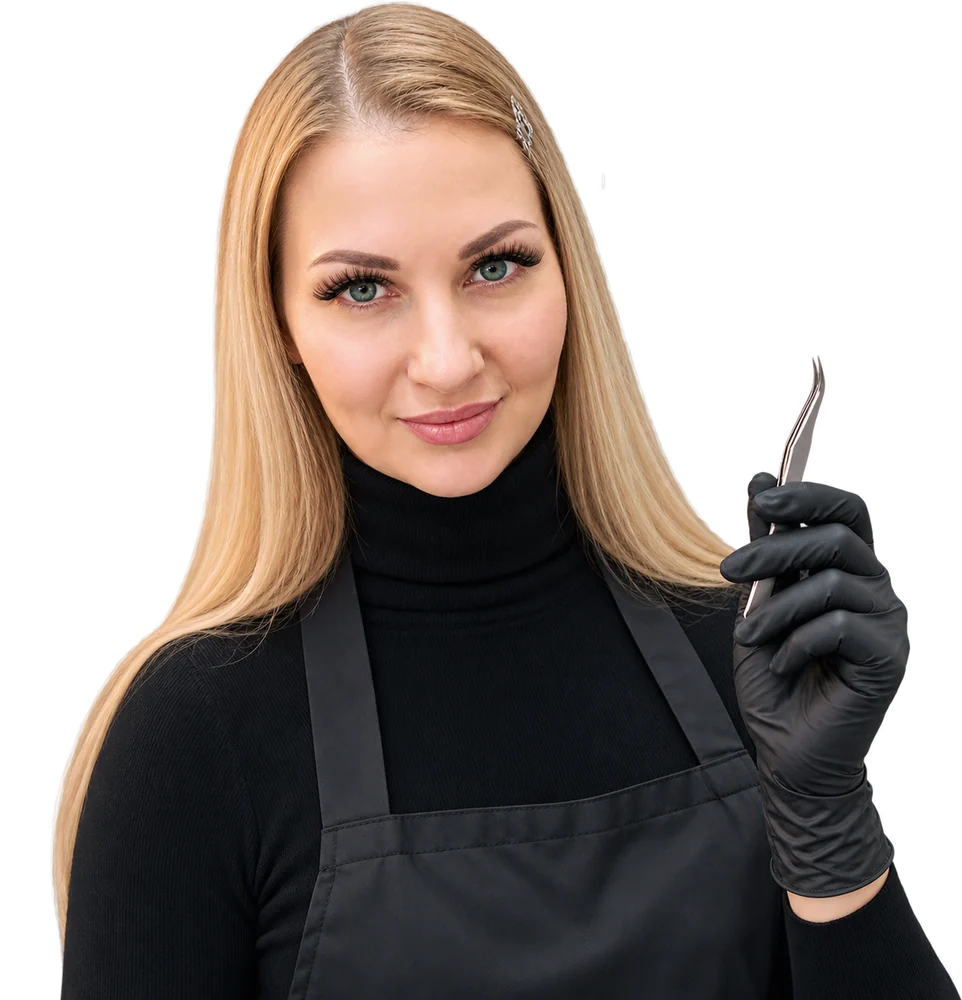
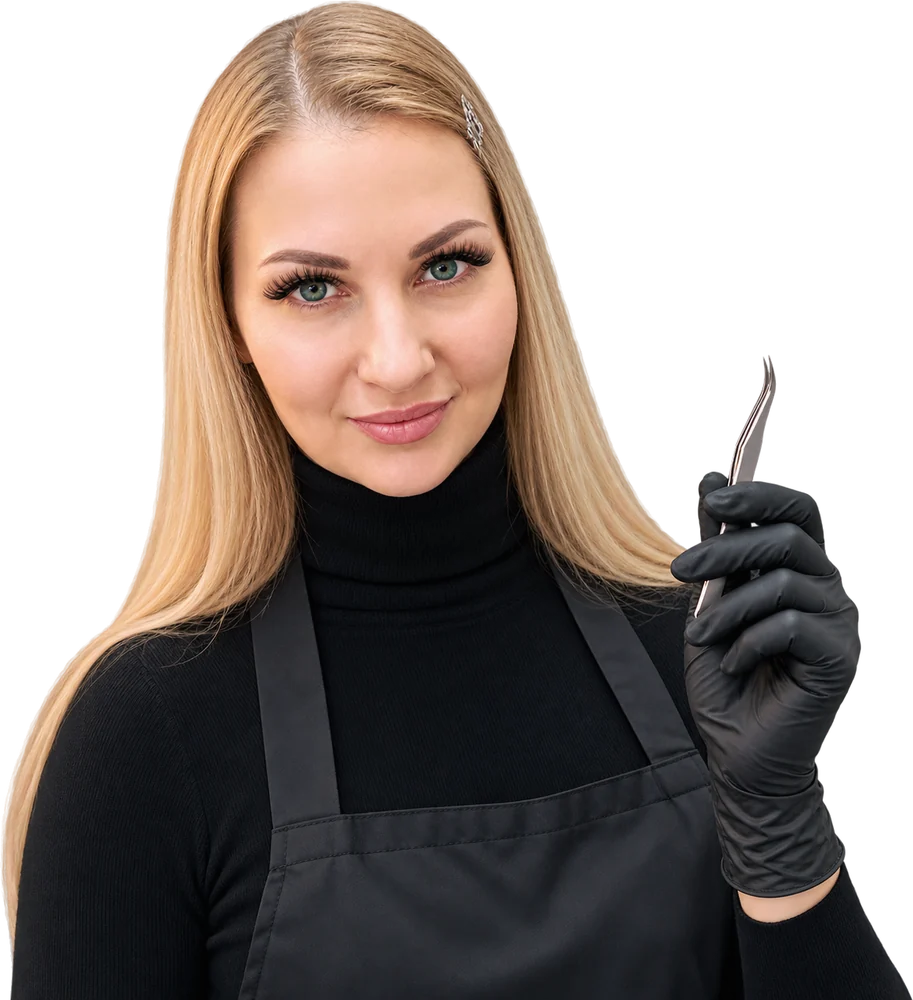
Flash Lash: course hero photo fits inside panel, plain font labels, certificate badge at bottom
Claude-Session: https://claude.ai/code/session_015USu4L9KcEDLKSjjP3hqWH

diff --git a/flash-lash/index.html b/flash-lash/index.html
@@ -604,7 +604,7 @@ a.pnote:hover{border-color:var(--pink)}
 /* ===== EDUCATION ===== */
 .edu-s{overflow:hidden}
 .eh3{font-size:clamp(28px,3vw,40px);line-height:1.16;margin-top:16px}
-.eh{position:relative;display:grid;grid-template-columns:1.08fr .92fr;gap:24px;margin-top:70px;border-radius:38px;background:var(--blk);color:var(--lt);isolation:isolate}
+.eh{position:relative;overflow:hidden;display:grid;grid-template-columns:1.08fr .92fr;gap:24px;margin-top:40px;border-radius:38px;background:var(--blk);color:var(--lt);isolation:isolate}
 .eh::after{content:'';position:absolute;inset:0;border-radius:inherit;box-shadow:inset 0 0 0 1px rgba(182,166,238,.2);pointer-events:none;z-index:3}
 .eh-glow{position:absolute;inset:0;border-radius:inherit;overflow:hidden;z-index:-1}
 .eh-glow::before{content:'';position:absolute;right:4%;bottom:-30%;width:62%;aspect-ratio:1;border-radius:50%;background:radial-gradient(closest-side,rgba(198,87,222,.5),rgba(122,99,232,.22) 60%,transparent);filter:blur(30px)}
@@ -621,10 +621,10 @@ a.pnote:hover{border-color:var(--pink)}
 .eh-st span{font-size:13px;line-height:1.35;color:rgba(242,238,248,.78)}
 .eh-bt{display:flex;flex-wrap:wrap;gap:12px;margin-top:34px}
 .eh-ph{position:relative;min-height:100%}
-.eh-ph img{position:absolute;right:-1%;bottom:0;height:calc(100% + 60px);-webkit-mask-image:linear-gradient(90deg,transparent 0,#000 30%);mask-image:linear-gradient(90deg,transparent 0,#000 30%);width:auto;max-width:none;filter:drop-shadow(0 30px 50px rgba(0,0,0,.45));z-index:1}
-.eh-pill{position:absolute;right:4%;top:24%;z-index:2;padding:12px 22px;border-radius:40px;border:1.5px solid rgba(214,120,236,.85);background:rgba(20,16,48,.55);backdrop-filter:blur(8px);-webkit-backdrop-filter:blur(8px);font:400 21px/1 var(--hand);color:var(--lt);box-shadow:0 0 26px rgba(198,87,222,.45);transform:rotate(-7deg)}
-.eh-note{position:absolute;left:0;bottom:44px;z-index:2;max-width:230px;padding:16px 18px 14px;border-radius:20px;background:rgba(14,16,38,.72);backdrop-filter:blur(10px);-webkit-backdrop-filter:blur(10px);border:1px solid var(--lnw);box-shadow:0 24px 50px -24px rgba(0,0,0,.8)}
-.eh-note .hand{display:block;font-size:21px;line-height:1.15;color:var(--pink2)}
+.eh-ph img{position:absolute;right:0;bottom:0;width:100%;height:calc(100% - 28px);object-fit:contain;object-position:right bottom;filter:drop-shadow(0 30px 50px rgba(0,0,0,.45));z-index:1}
+.eh-pill{position:absolute;right:16px;top:22%;z-index:2;padding:12px 20px;border-radius:40px;border:1.5px solid rgba(214,120,236,.85);background:rgba(20,16,48,.6);backdrop-filter:blur(8px);-webkit-backdrop-filter:blur(8px);font:600 14px/1 var(--sans);letter-spacing:.01em;color:var(--lt);box-shadow:0 0 26px rgba(198,87,222,.45)}
+.eh-note{position:absolute;left:0;bottom:40px;z-index:2;max-width:230px;padding:16px 18px 14px;border-radius:20px;background:rgba(14,16,38,.72);backdrop-filter:blur(10px);-webkit-backdrop-filter:blur(10px);border:1px solid var(--lnw);box-shadow:0 24px 50px -24px rgba(0,0,0,.8)}
+.eh-note b{display:block;font:600 15px/1.35 var(--sans);color:var(--lt)}
 .eh-note small{display:block;margin-top:8px;font-size:11.5px;color:var(--mut)}
 
 .eg{display:grid;grid-template-columns:.9fr 1.1fr;gap:72px;align-items:center;margin-top:120px}
@@ -633,7 +633,7 @@ a.pnote:hover{border-color:var(--pink)}
 .eg-bg::before{content:'';position:absolute;inset:0;background:radial-gradient(60% 50% at 50% 30%,rgba(198,87,222,.32),transparent 70%)}
 .eg-bg::after{content:'';position:absolute;inset:0;border-radius:inherit;box-shadow:inset 0 0 0 1px rgba(182,166,238,.22)}
 .eg-ph img{position:absolute;left:50%;bottom:0;transform:translateX(-50%);height:100%;width:auto;max-width:none;filter:drop-shadow(0 24px 40px rgba(0,0,0,.4))}
-.eg-badge{position:absolute;right:-8px;top:22%;display:flex;align-items:center;gap:12px;padding:14px 18px;border-radius:20px;background:var(--grad);color:#fff;font-size:13px;font-weight:600;line-height:1.3;box-shadow:0 24px 44px -20px rgba(198,87,222,.8);transform:rotate(4deg)}
+.eg-badge{position:absolute;right:-8px;bottom:9%;display:flex;align-items:center;gap:12px;padding:14px 18px;border-radius:20px;background:var(--grad);color:#fff;font-size:13px;font-weight:600;line-height:1.3;box-shadow:0 24px 44px -20px rgba(198,87,222,.8);transform:rotate(4deg)}
 .eg-badge .i{width:28px;height:28px}
 .eg-l{list-style:none;margin-top:30px;border-top:1px solid var(--ln)}
 .eg-l li{display:grid;grid-template-columns:64px 1fr;align-items:center;gap:18px;padding:20px 0;border-bottom:1px solid var(--ln)}
@@ -704,7 +704,7 @@ a.pnote:hover{border-color:var(--pink)}
   .eh{grid-template-columns:1fr;gap:0;margin-top:40px}
   .eh-tx{padding:48px 40px 0}
   .eh-ph{height:460px}
-  .eh-ph img{right:auto;left:50%;transform:translateX(-50%);height:calc(100% + 10px);-webkit-mask-image:none;mask-image:none}
+  .eh-ph img{object-position:center bottom;height:calc(100% - 10px)}
   .eh-pill{right:6%;top:16%}
   .eh-note{left:24px;bottom:28px}
   .eg{grid-template-columns:1fr;gap:44px;margin-top:100px}
@@ -726,11 +726,12 @@ a.pnote:hover{border-color:var(--pink)}
   .eh-bt{margin-top:26px}
   .eh-bt .btn{flex:1 1 100%}
   .eh-ph{height:390px}
-  .eh-pill{font-size:17px;top:14%;right:10px;padding:10px 16px}
-  .eh-note{left:12px;bottom:18px;max-width:178px;padding:13px 14px 12px}
-  .eh-note .hand{font-size:17px}
+  .eh-pill{font-size:13px;top:12%;right:10px;padding:10px 14px}
+  .eh-note{left:12px;bottom:14px;max-width:158px;padding:11px 13px 10px;border-radius:16px}
+  .eh-note small{font-size:10.5px;margin-top:6px}
+  .eh-note b{font-size:13px}
   .eg{margin-top:90px;gap:34px}
-  .eg-badge{right:0;top:16%;font-size:12px;padding:11px 14px;gap:10px}
+  .eg-badge{right:0;bottom:7%;font-size:12px;padding:11px 14px;gap:10px}
   .eg-badge .i{width:22px;height:22px}
   .eg-l{margin-top:24px}
   .eg-l li{grid-template-columns:44px 1fr;gap:12px;padding:16px 0}
@@ -1107,9 +1108,9 @@ a.pnote:hover{border-color:var(--pink)}
         </div>
       </div>
       <div class="eh-ph" aria-hidden="true">
-        <img src="img/elena.webp" alt="" width="962" height="1000" loading="lazy">
-        <span class="eh-pill">курс 1–3 дня</span>
-        <div class="eh-note"><span class="hand">как новичку наращивать быстро</span><small>Елена Болдырева, топ-тренер</small></div>
+        <img src="img/elena.webp" alt="" width="913" height="1000" loading="lazy">
+        <span class="eh-pill">Курс 1–3 дня</span>
+        <div class="eh-note"><b>Как новичку наращивать быстро</b><small>Елена Болдырева, топ-тренер</small></div>
       </div>
     </div>
 
